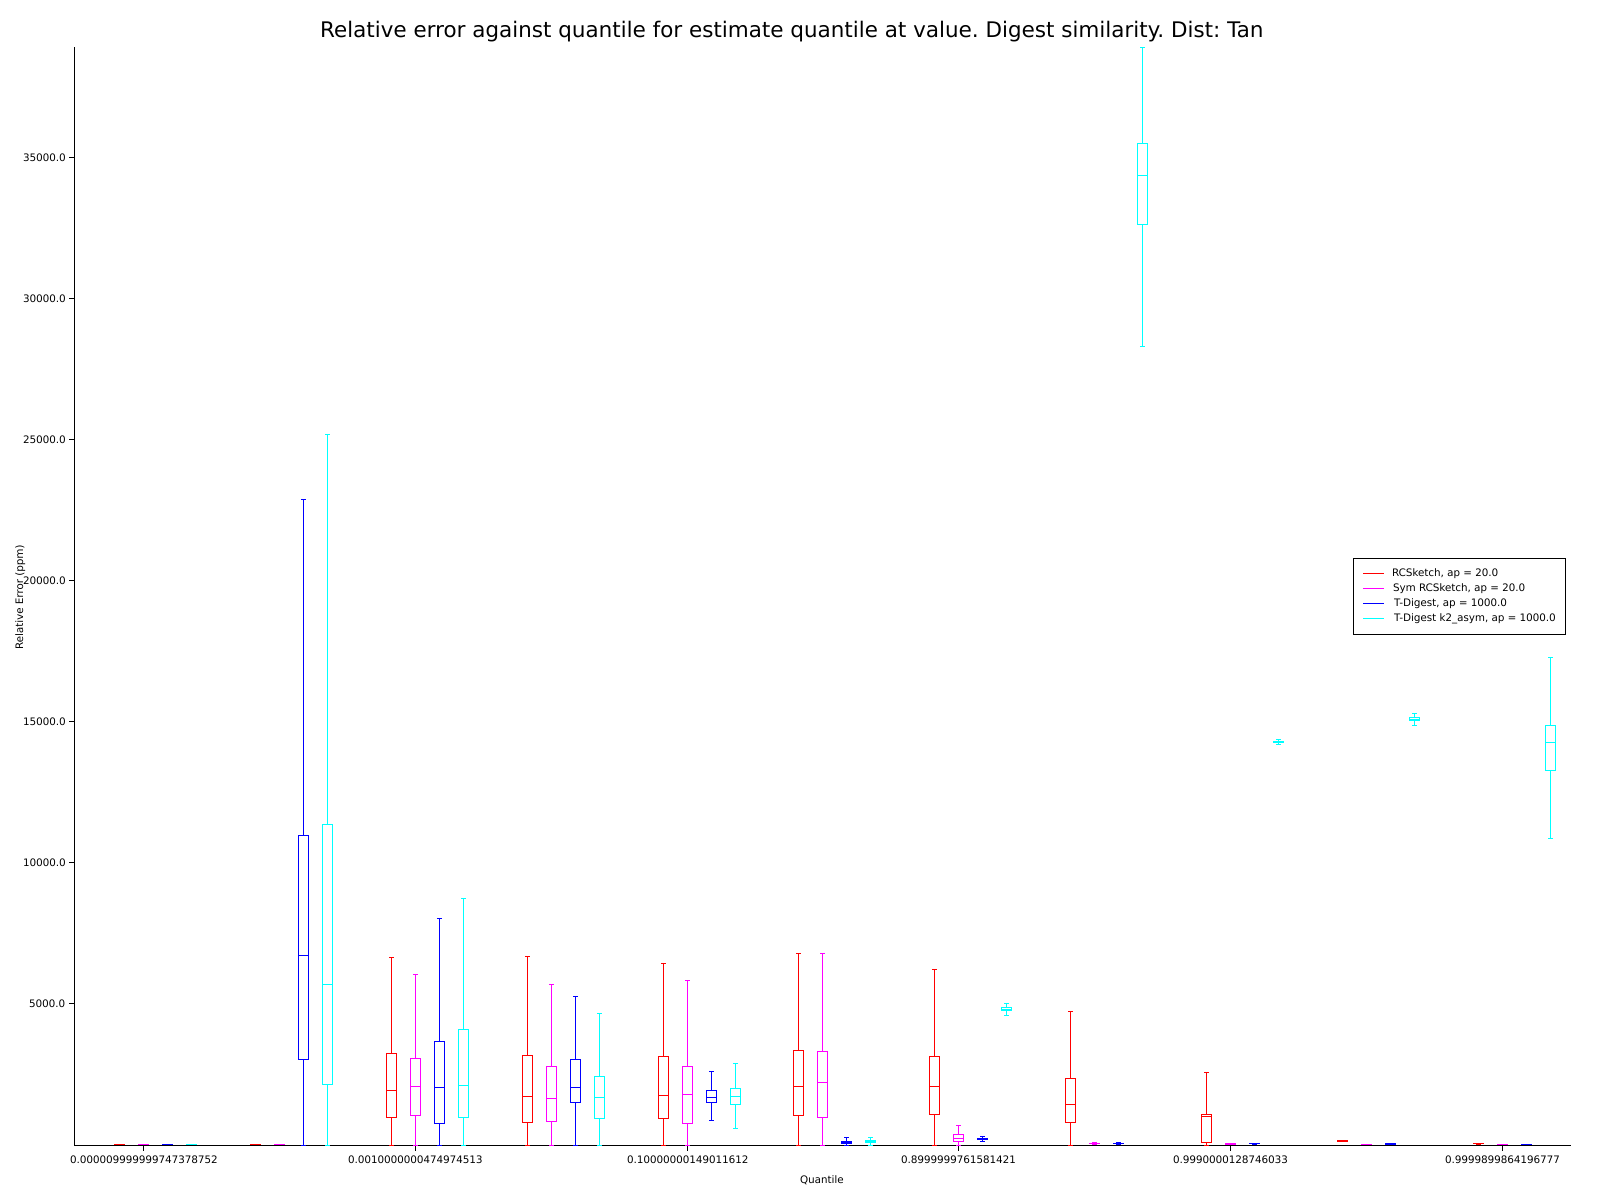
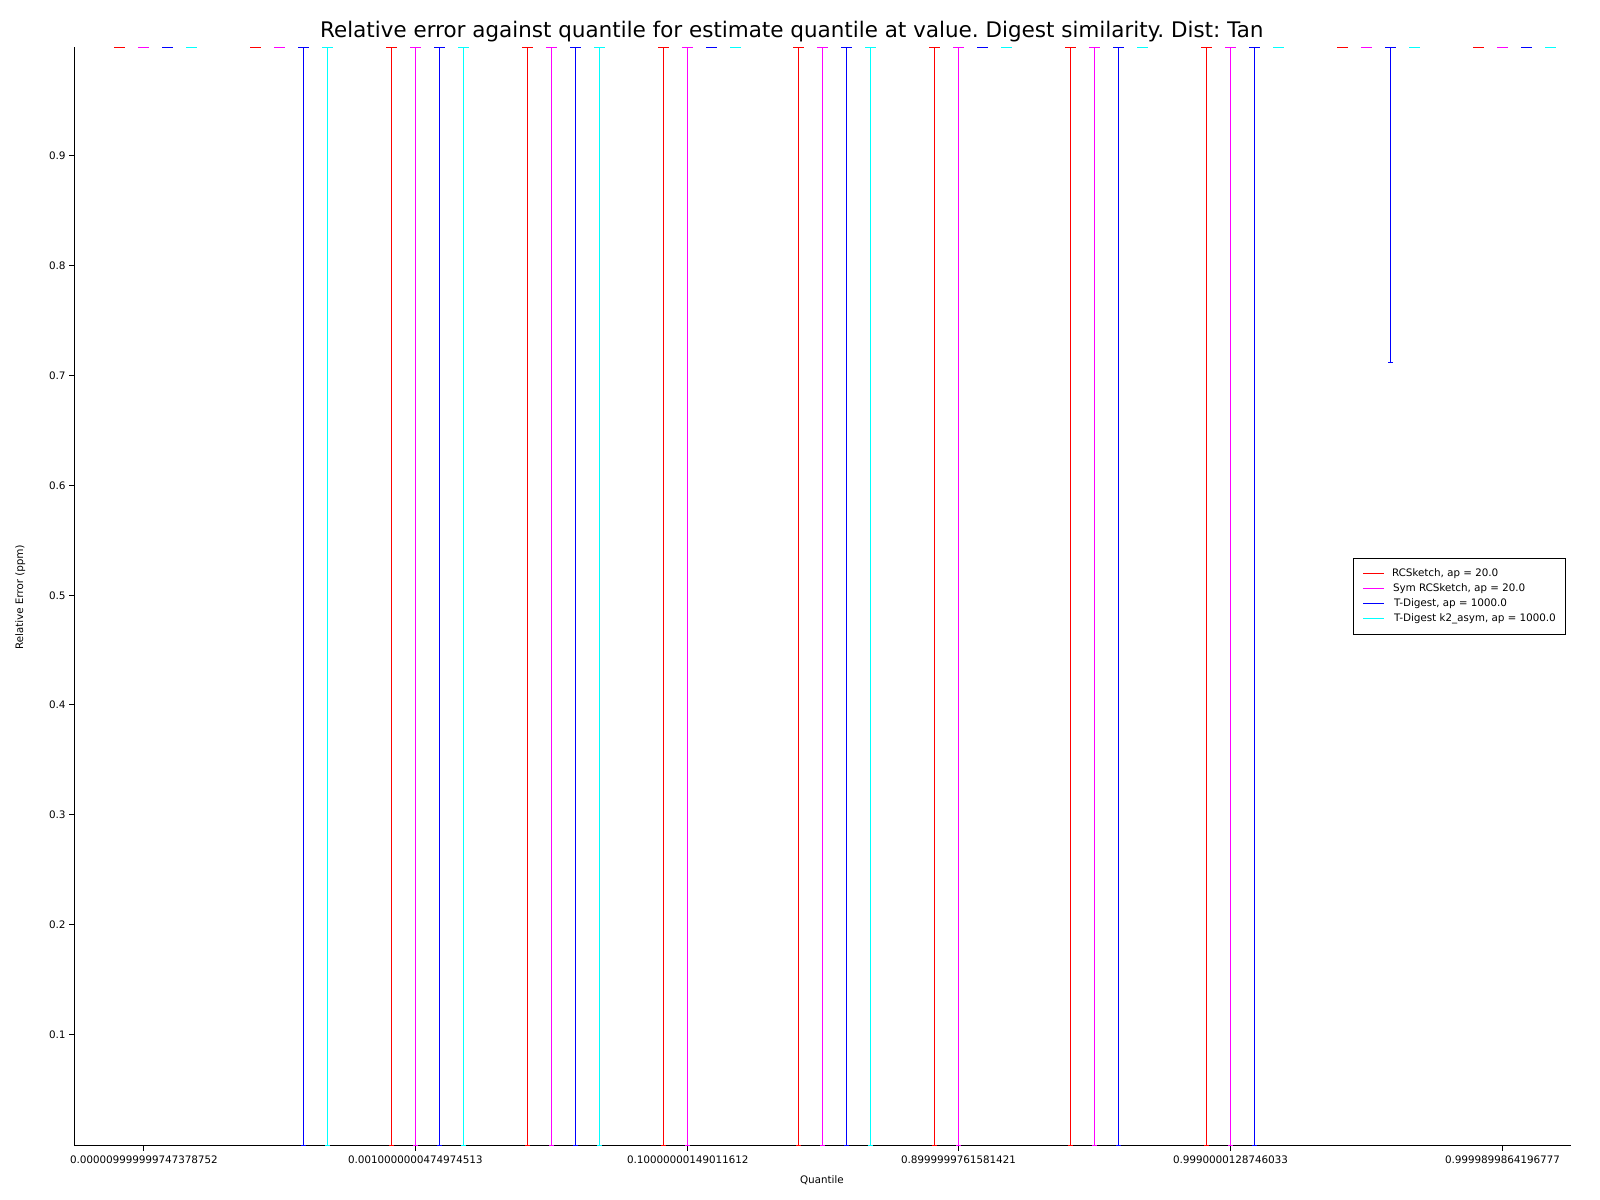
more plots

diff --git a/examples/accuracy.rs b/examples/accuracy.rs
@@ -101,7 +101,7 @@ where
         .flatten()
         .collect();
     // println!("{:?}", y_values);
-    let y_values_range = fitting_range(y_values.iter());
+    let y_values_range = fitting_range(y_values.iter().filter(|x| **x > 1e7));
     let x_values: Vec<f64> = series[0..1]
         .iter()
         .map(|s| s.datapoints.iter().map(|a| a.0).collect::<Vec<f64>>())
